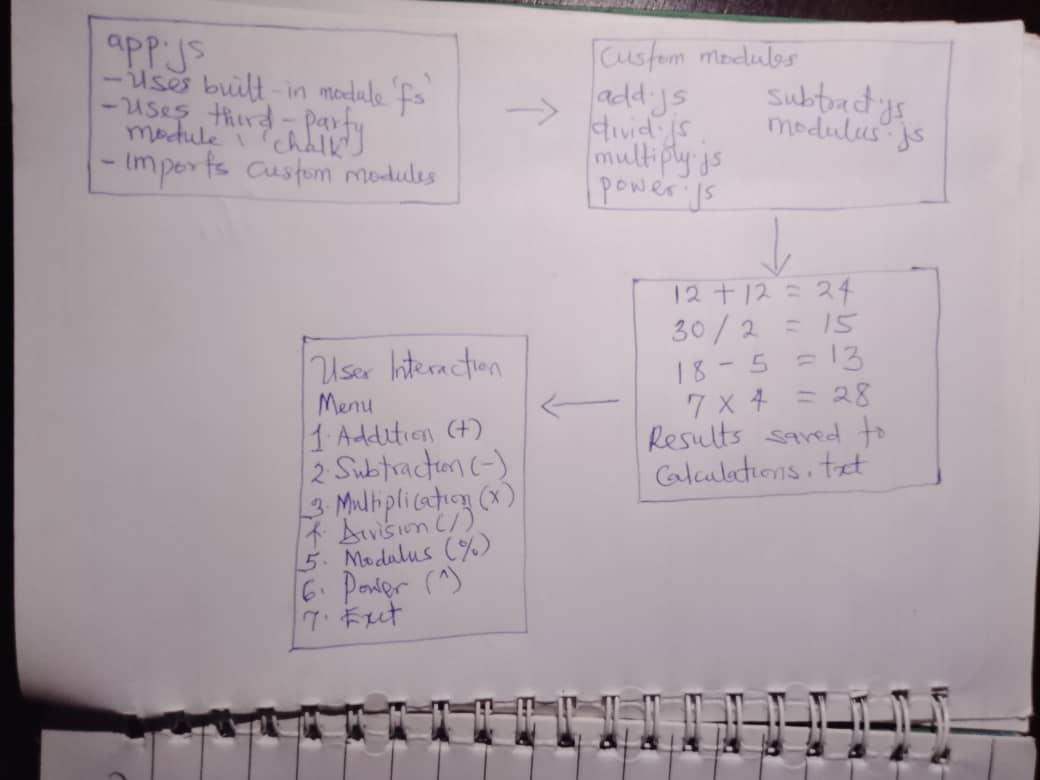
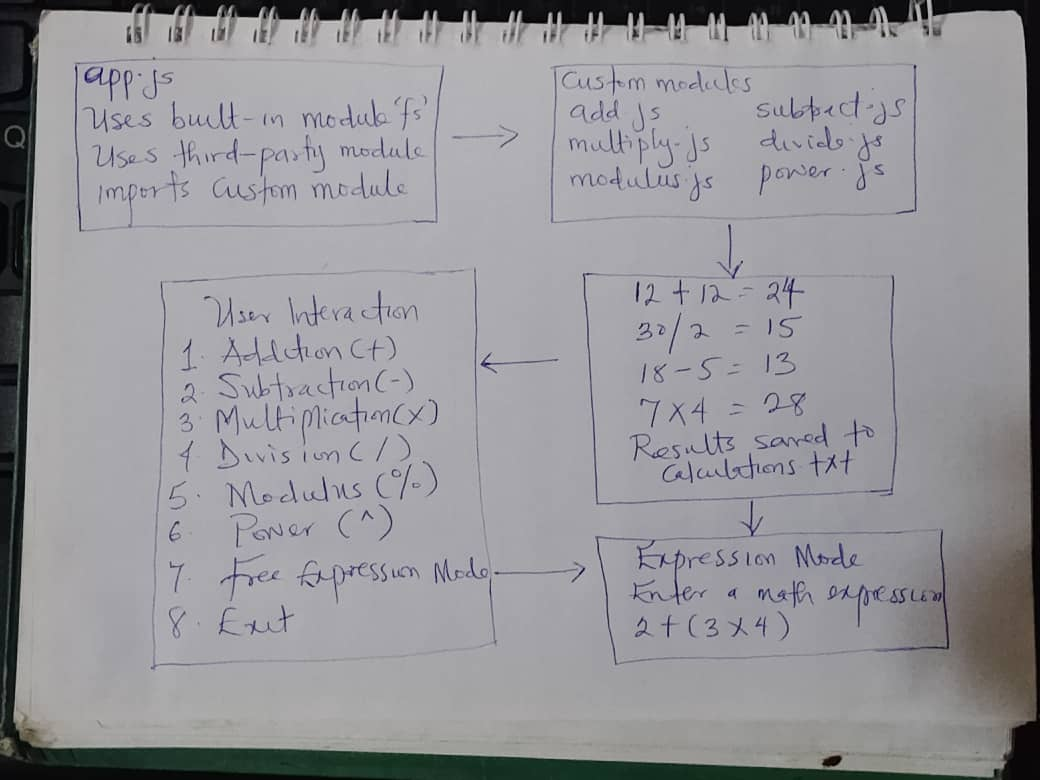
updated codebas to have a mathjs third party module, readme updated including the rough-sketch

diff --git a/index.js b/index.js
@@ -1,11 +1,10 @@
-// app.js
-
 // 1. Built-in modules
 import fs from "fs";
 import readline from "readline";
 
 // 2. Third-party module
 import chalk from "chalk";
+import { evaluate } from "mathjs";
 
 // 3. Custom modules
 import { add } from "./add.js";
@@ -22,10 +21,10 @@ console.log(chalk.white.bold("\n=== WELCOME TO NODE.JS CALCULATOR ===\n"));
 // Create readline interface
 const rl = readline.createInterface({
   input: process.stdin,
-  output: process.stdout
+  output: process.stdout,
 });
 
-// Menu function
+// Display menu
 function showMenu() {
   console.log(chalk.yellow("Choose an operation:"));
   console.log("1. Addition (+)");
@@ -34,69 +33,108 @@ function showMenu() {
   console.log("4. Division (/)");
   console.log("5. Modulus (%)");
   console.log("6. Power (^)");
-  console.log("7. Exit\n");
+  console.log("7. Free Expression Mode (mathjs)");
+  console.log("8. Exit\n");
 
-  rl.question("Enter your choice (1-7): ", handleMenuChoice);
+  rl.question("Enter your choice (1-8): ", handleMenuChoice);
 }
 
-// Handle user choice
+// Handle menu choices
 function handleMenuChoice(choice) {
-  if (choice === "7") {
+  if (choice === "8") {
     console.log(chalk.green("\n👋 Exiting calculator. Goodbye!\n"));
     rl.close();
     return;
+  }
+
+  if (choice === "7") {
+    return askExpression(); // Switch to expression mode
   }
 
   rl.question("Enter first number: ", (num1Str) => {
     rl.question("Enter second number: ", (num2Str) => {
       const num1 = Number(num1Str);
       const num2 = Number(num2Str);
-      let result;
 
-      try {
-        switch (choice) {
-          case "1":
-            result = add(num1, num2);
-            console.log(chalk.green(`\n➕ ${num1} + ${num2} = ${result}\n`));
-            break;
-          case "2":
-            result = subtract(num1, num2);
-            console.log(chalk.yellow(`\n➖ ${num1} - ${num2} = ${result}\n`));
-            break;
-          case "3":
-            result = multiply(num1, num2);
-            console.log(chalk.cyan(`\n✖  ${num1} * ${num2} = ${result}\n`));
-            break;
-          case "4":
-            result = divide(num1, num2);
-            console.log(chalk.magenta(`\n➗ ${num1} / ${num2} = ${result}\n`));
-            break;
-          case "5":
-            result = modulus(num1, num2);
-            console.log(chalk.blue(`\n🔢 ${num1} % ${num2} = ${result}\n`));
-            break;
-          case "6":
-            result = power(num1, num2);
-            console.log(chalk.redBright(`\n✨ ${num1} ^ ${num2} = ${result}\n`));
-            break;
-          default:
-            console.log(chalk.red("\n❌ Invalid choice. Try again.\n"));
-            return showMenu();
-        }
-
-        // Save result to file
-        const logText = `Operation: ${choice}, Num1: ${num1}, Num2: ${num2}, Result: ${result}\n`;
-        fs.appendFileSync("calculations.txt", logText);
-
-      } catch (error) {
-        console.error(chalk.red(`\n${error.message}\n`));
+      if (isNaN(num1) || isNaN(num2)) {
+        console.log(chalk.red("\n❌ Please enter valid numbers.\n"));
+        return showMenu();
       }
 
-      // Show menu again after calculation
-      showMenu();
+      performCalculation(choice, num1, num2);
     });
   });
 }
 
-// Start the program
+// Perform standard operation using custom modules
+function performCalculation(choice, num1, num2) {
+  let result;
+
+  try {
+    switch (choice) {
+      case "1":
+        result = add(num1, num2);
+        console.log(chalk.green(`\n➕ ${num1} + ${num2} = ${result}\n`));
+        break;
+      case "2":
+        result = subtract(num1, num2);
+        console.log(chalk.yellow(`\n➖ ${num1} - ${num2} = ${result}\n`));
+        break;
+      case "3":
+        result = multiply(num1, num2);
+        console.log(chalk.cyan(`\n✖  ${num1} * ${num2} = ${result}\n`));
+        break;
+      case "4":
+        result = divide(num1, num2);
+        console.log(chalk.magenta(`\n➗ ${num1} / ${num2} = ${result}\n`));
+        break;
+      case "5":
+        result = modulus(num1, num2);
+        console.log(chalk.blue(`\n🔢 ${num1} % ${num2} = ${result}\n`));
+        break;
+      case "6":
+        result = power(num1, num2);
+        console.log(chalk.redBright(`\n✨ ${num1} ^ ${num2} = ${result}\n`));
+        break;
+      default:
+        console.log(chalk.red("\n❌ Invalid choice. Try again.\n"));
+        return showMenu();
+    }
+
+    logResult({ operation: choice, num1, num2, result });
+  } catch (error) {
+    console.error(chalk.red(`\n${error.message}\n`));
+  }
+
+  showMenu();
+}
+
+// Expression mode using mathjs
+function askExpression() {
+  rl.question(chalk.yellow("\nEnter a math expression (or type 'exit' to go back): "), (input) => {
+    if (input.toLowerCase() === "exit") {
+      console.log(chalk.green("\n🔙 Returning to main menu...\n"));
+      return showMenu();
+    }
+
+    try {
+      const result = evaluate(input);
+      console.log(chalk.cyan(`✅ Result: ${result}`));
+
+      logResult({ operation: "expression", input, result });
+    } catch (error) {
+      console.log(chalk.red(`❌ Error: Invalid expression.`));
+    }
+
+    askExpression(); // Ask again until "exit"
+  });
+}
+
+// Log result to file
+function logResult(entry) {
+  fs.appendFileSync("calculations.txt", JSON.stringify(entry) + "\n");
+  console.log(chalk.white.bgGreen("📁 Result saved to calculations.txt"));
+}
+
+// Start program
 showMenu();

diff --git a/README.md b/README.md
@@ -3,24 +3,31 @@
 This is a simple **Node.js Calculator App** that demonstrates the use of:
 
 * **Built-in Node.js modules** (`fs`, `readline`)
-* **Third-party module** (`chalk` for colorful output)
+* **Third-party modules** (`chalk` for colorful output, `mathjs` for advanced math operations)
 * **Custom modules** (addition, subtraction, multiplication, division, modulus, power)
 
-It includes an **interactive text-based menu** that allows users to perform different calculations directly in the terminal.
+It combines **two modes** in one app:
+1. **Menu-driven mode** → Choose an operation (add, subtract, multiply, etc.) and enter two numbers.
+2. **Free Expression mode** → Type any math expression (like `sqrt(25) + 3 * 4`) and get instant results using `mathjs`.
+
 
 ---
 
 ## ✨ Features
 
-* ✅ Addition
-* ✅ Subtraction
-* ✅ Multiplication
-* ✅ Division (with divide-by-zero error handling)
-* ✅ Modulus (remainder)
-* ✅ Power (exponentiation)
-* ✅ Results are saved to a `calculations.txt` file
-* ✅ Interactive CLI menu using Node.js `readline`
-* ✅ Colorful output using `chalk`
+
+* ✅ **Menu-driven operations** (using custom modules):
+  * Addition
+  * Subtraction
+  * Multiplication
+  * Division (with divide-by-zero handling)
+  * Modulus
+  * Power (exponentiation)
+* ✅ **Expression mode** using `mathjs`:
+  * Handles advanced math like `sqrt()`, `pow()`, `sin()`, `log()`, factorials, etc.
+  * Supports parentheses and operator precedence
+* ✅ Results saved to `calculations.txt` (JSON format)
+* ✅ Colorful terminal output with `chalk`
 * ✅ Displays **registration number** at startup
 
 ---
@@ -30,7 +37,7 @@ It includes an **interactive text-based menu** that allows users to perform diff
 ```
 calculator-app/
 │
-├── app.js          # Main entry point (interactive menu)
+├── index.js          # Main entry point (interactive menu)
 ├── add.js          # Custom module 1
 ├── subtract.js     # Custom module 2
 ├── multiply.js     # Custom module 3
@@ -95,14 +102,44 @@ Choose an operation:
 4. Division (/)
 5. Modulus (%)
 6. Power (^)
-7. Exit
+7. Free Expression Mode (mathjs)
+8. Exit
 
-Enter your choice (1-7): 3
+Enter your choice (1-8): 3
 Enter first number: 8
 Enter second number: 7
 
 ✖  8 * 7 = 56
+📁 Result saved to calculations.txt
+
 ```
+
+## Expression Mode
+Enter your choice (1-8): 7
+
+Enter a math expression (or type 'exit' to go back): sqrt(16)
+✅ Result: 4
+📁 Result saved to calculations.txt
+
+Enter a math expression (or type 'exit' to go back): (5+3)*2
+✅ Result: 16
+
+Enter a math expression (or type 'exit' to go back): exit
+🔙 Returning to main menu...
+
+## 📚 MathJS Cheat Sheet (Expression Mode Examples)
+| Expression      | Description       | Result |
+| --------------- | ----------------- | ------ |
+| `sqrt(25)`      | Square root       | `5`    |
+| `pow(3, 4)`     | Power (3^4)       | `81`   |
+| `(10 / 2) + 5`  | Normal arithmetic | `10`   |
+| `sin(pi / 2)`   | Trigonometry      | `1`    |
+| `log(100, 10)`  | Log base 10       | `2`    |
+| `5!`            | Factorial         | `120`  |
+| `mean([2,4,6])` | Average of list   | `4`    |
+| `abs(-42)`      | Absolute value    | `42`   |
+
+
 
 ---
 
@@ -110,6 +147,7 @@ Enter second number: 7
 
 * **Node.js** (ES Module format)
 * **chalk** (third-party npm module)
+* **mathjs** (for advanced math calculations)
 * **fs** and **readline** (built-in modules)
 
 ---
@@ -117,7 +155,7 @@ Enter second number: 7
 ## 📝 Notes
 
 * Ensure you are running **Node.js v14+** (supports ES modules).
-* Results of each calculation are appended to `calculations.txt`.
+* Results of each calculation are appended to `calculations.txt` as JSON.
 * Exit the app anytime by selecting **option 7**.
 
 ---
